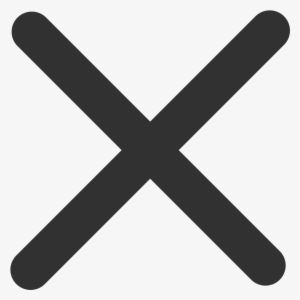
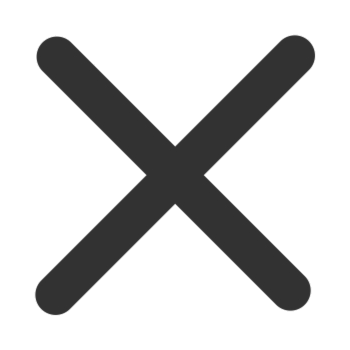
Slight styling adjustment database page
map controls ...

diff --git a/FRONTEND/GloApp/static/styles/database.css b/FRONTEND/GloApp/static/styles/database.css
@@ -162,7 +162,8 @@ body {
 
 .map_area_select_img {
   margin: 0;
-  width: 1.8em;
+  margin-bottom: 0.1;
+  width: 1.6em;
 }
 
 /** plots: **/